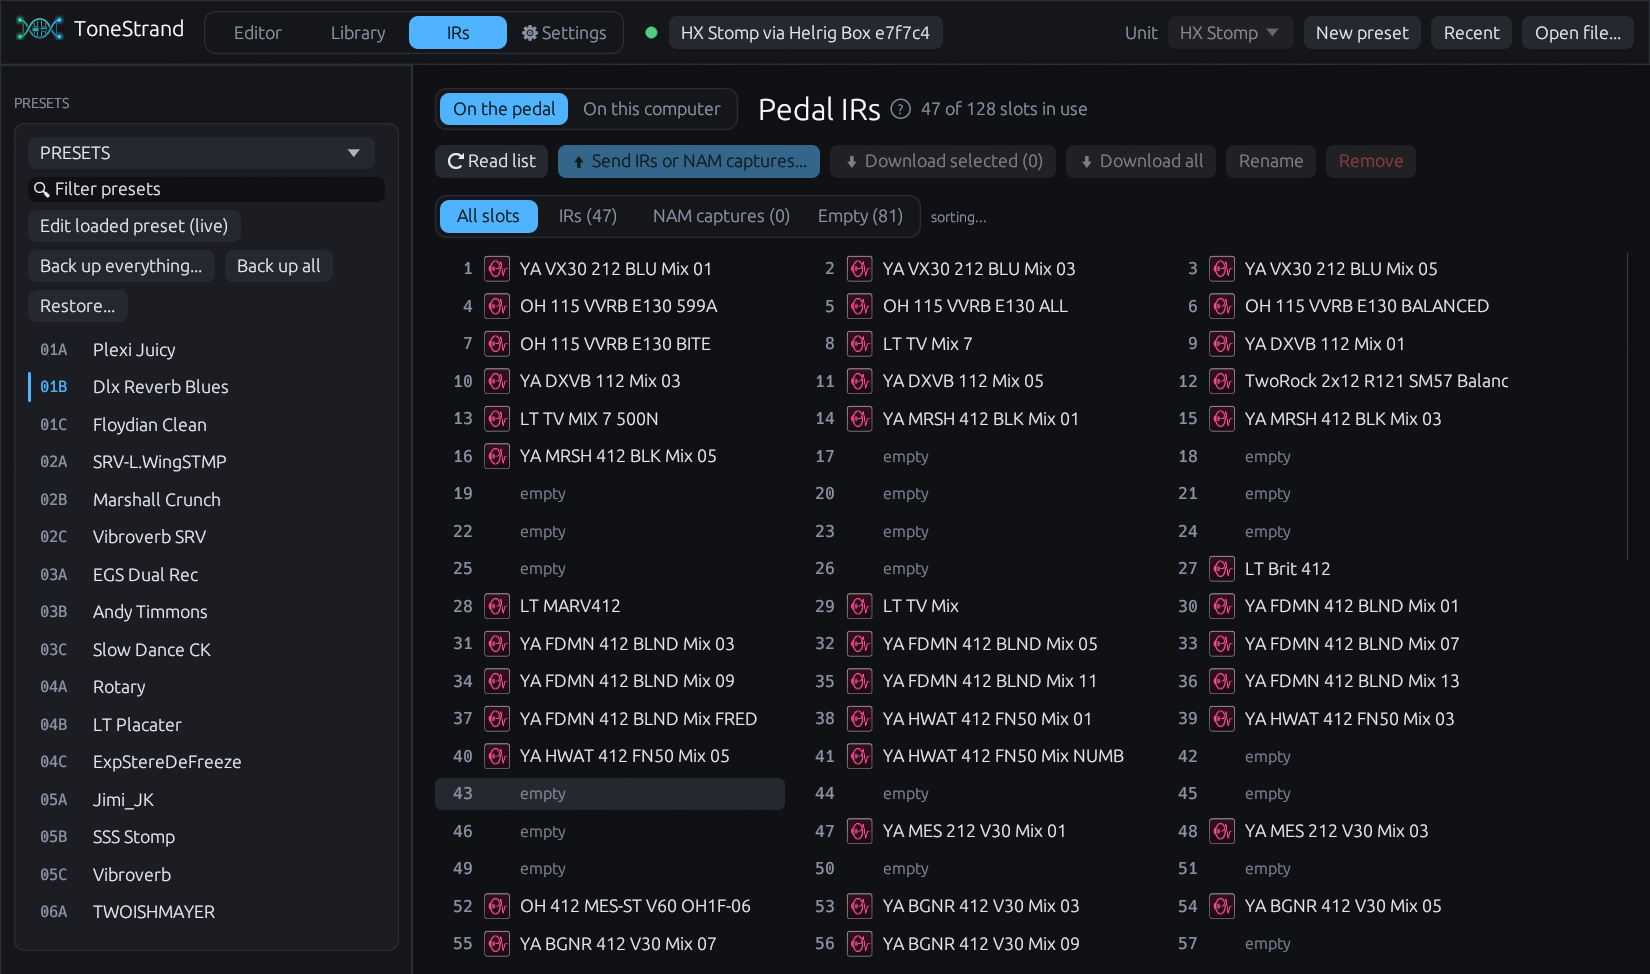
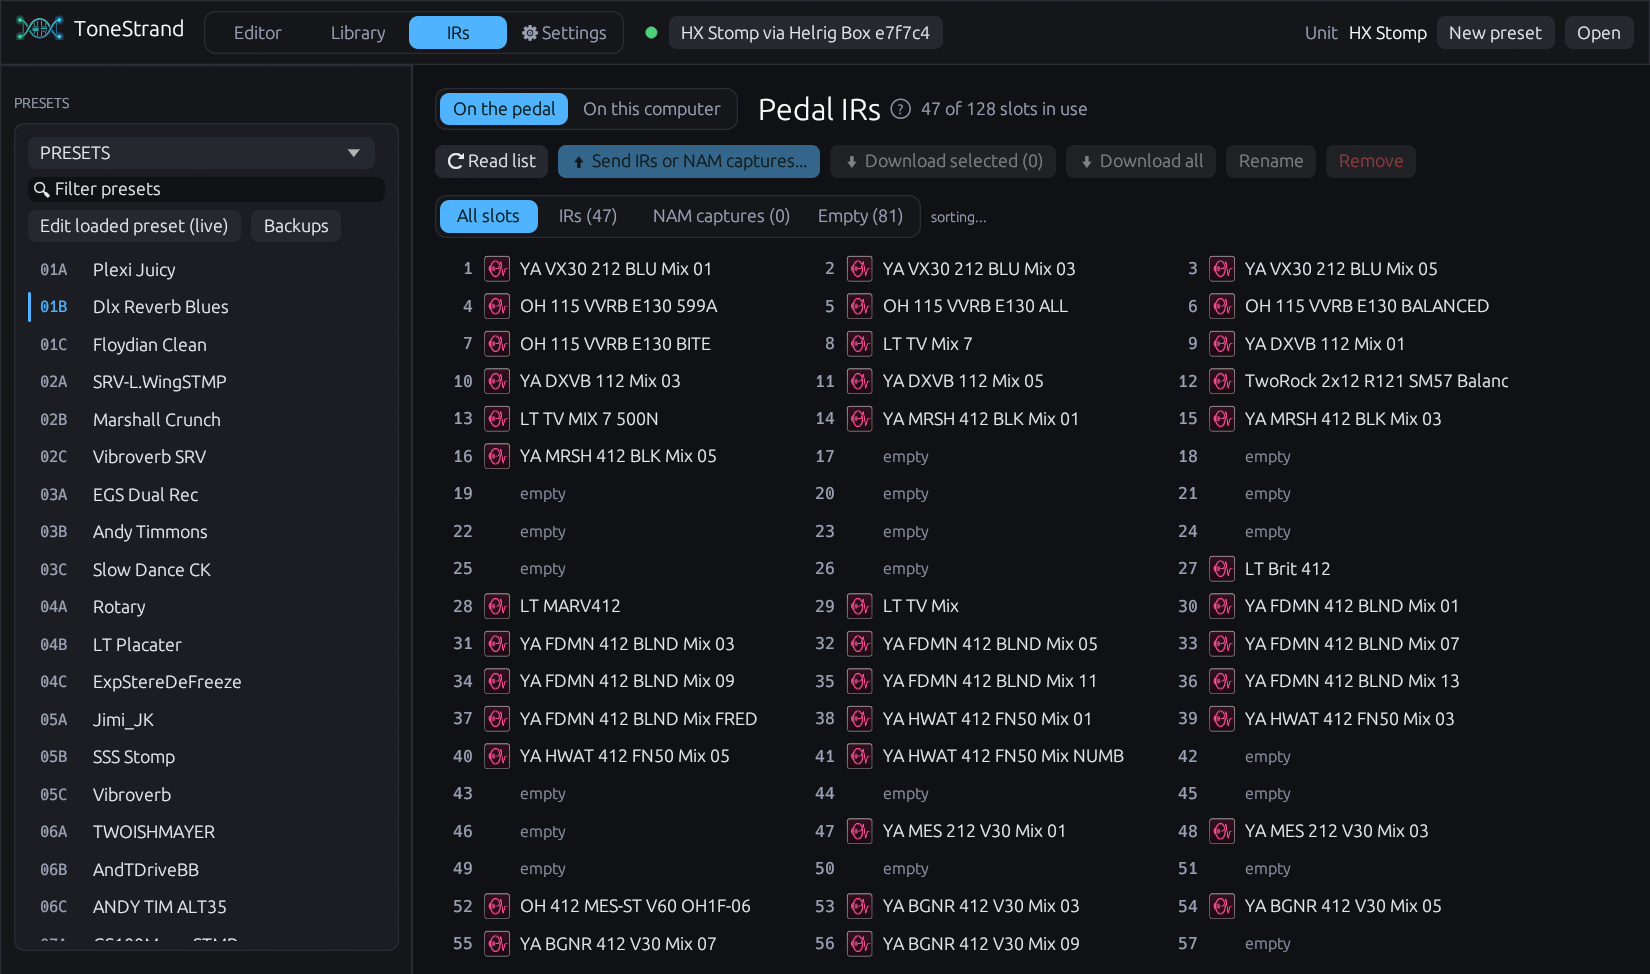
Longer names get a third line at the smallest size; fresh README screenshots; docs
- Effect names: the smallest step may use a third line.
- Shortcuts window: aligned columns.
- README images retaken connected to a real HX Stomp with the new
  look (status bar cropped); README mentions F1.
- AGENTS.md test count, BUILDING.md note on --screenshot, review
  status for the UX polish.

diff --git a/src/chain.rs b/src/chain.rs
@@ -235,9 +235,10 @@ fn draw_studio_block(ui: &egui::Ui, rect: Rect, look: StudioBlock) {
     // A long name steps down in size until it fits whole (the hover tip always has it in full).
     let rows = if detail.is_some() && !wide { 1 } else { 2 };
     let mut g = None;
-    for size in [14.5_f32, 13.5, 12.5, 11.5] {
+    // (the smallest step may use a third line when there is room under the icon).
+    for (size, extra) in [(14.5_f32, 0), (13.5, 0), (12.5, 0), (11.5, 0), (10.5, usize::from(rows == 2))] {
         let mut job = egui::text::LayoutJob::simple(title.to_owned(), egui::FontId::proportional(size), tc, rect.width() - 20.0);
-        job.wrap.max_rows = rows;
+        job.wrap.max_rows = rows + extra;
         job.wrap.break_anywhere = false;
         let laid = p.layout_job(job);
         let fits = !laid.elided;

diff --git a/src/window/mod.rs b/src/window/mod.rs
@@ -736,7 +736,7 @@ impl App {
                 ];
                 for (title, rows) in sections {
                     ui.label(RichText::new(title).small().strong().color(MUTED));
-                    egui::Grid::new(("shortcuts", title)).num_columns(2).spacing([18.0, 4.0]).show(ui, |ui| {
+                    egui::Grid::new(("shortcuts", title)).num_columns(2).min_col_width(210.0).spacing([18.0, 4.0]).show(ui, |ui| {
                         for (keys, what) in rows {
                             ui.label(RichText::new(*keys).monospace().color(accent()));
                             ui.label(*what);

diff --git a/docs/CODE_REVIEW.md b/docs/CODE_REVIEW.md
@@ -126,3 +126,11 @@ Severity: **High** = can lose the owner's data or break a project rule;
 2. H4, H6, M1–M3, M6.
 3. Enable clippy and add CI; add a `FakeWire` test for the session.
 4. U2, U3, U5, U6, then the refactors in section 3.
+
+> **UX polish (branch `feature/ux-polish`):** effect names step down in size before being cut;
+> one Backups menu; a block is selected automatically; the sample preset opens on the first start
+> only; Unit shows as text when connected; Open + Recent are one menu; slightly lighter muted
+> text and empty slots; Settings "Jump to" row; the window remembers its size and position;
+> F1 shortcuts window; the Activity button turns red when something went wrong; a Getting
+> started card; a Revert button and a brief "sent" label on the live preset. Not done (bigger
+> features): compare presets, light theme, accessibility work, Box token storage.

diff --git a/README.md b/README.md
@@ -35,7 +35,7 @@ The effect pictures and names come from Line 6; see "Third-party material" below
 - **Signal chain** drawn as a diagram: drag to move, click the line between effects to split
   there or add an effect / FX loop / send / return, right-click menus, keyboard shortcuts
   (Space on/off, Enter change, Delete remove, arrows to select); Ctrl+O / N / W, Ctrl+Tab for
-  presets, F2 to rename, Ctrl+S to save, Ctrl+Z / Y for undo and redo.
+  presets, F2 to rename, Ctrl+S to save, Ctrl+Z / Y for undo and redo; F1 lists them all.
 - **Snapshots**: recall, rename, copy/paste, duplicate, delete; per-snapshot knob values.
 - **Controllers**: footswitches, expression pedals, snapshots, MIDI CC and (for `.hlx`) Command
   Center, both on files and live on the pedal.

diff --git a/AGENTS.md b/AGENTS.md
@@ -8,7 +8,7 @@ Read this first, then `docs/ARCHITECTURE.md`. The protocol and formats are in
 ```sh
 cargo build                     # debug (optimised enough to use)
 cargo build --release
-cargo test                      # 51 tests; must stay green
+cargo test                      # 52 tests; must stay green
 cargo fmt                       # rustfmt.toml sets the style; CI runs `cargo fmt --check`
 cargo clippy --all-targets -- -D warnings   # must stay clean (CI runs these)
 cargo run -- --help             # the command-line tools

diff --git a/docs/BUILDING.md b/docs/BUILDING.md
@@ -85,6 +85,7 @@ page or file.
 
 | Variable | Effect |
 |---|---|
+| (none) | `--screenshot` always opens the sample preset and changes nothing in your settings file |
 | `TONESTRAND_PAGE` | Start on `settings`, `irs`, `tones`, `tests`, `library` or `open` |
 | `TONESTRAND_OPEN` | With `TONESTRAND_PAGE=open`: open this preset file at start |
 | `TONESTRAND_UNIT` | Start for this unit's device number (e.g. `2162694` HX Stomp) |
